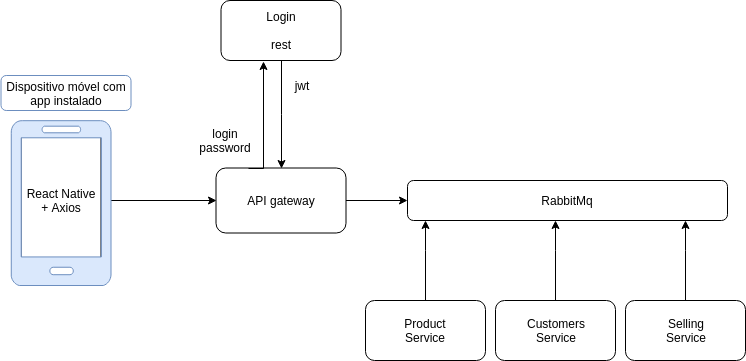
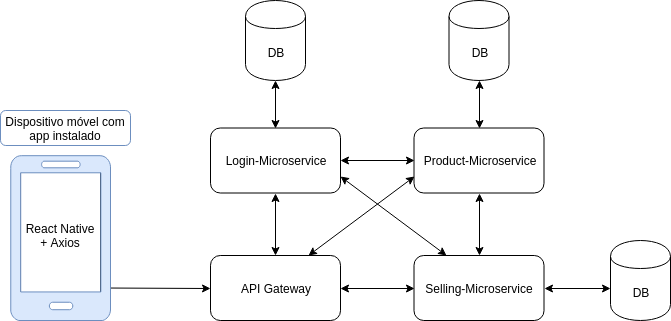
refatorando diagrama de relacoes e adicionando diagrama de classes

diff --git a/docs/docs/doc-arquitetura.md b/docs/docs/doc-arquitetura.md
@@ -77,9 +77,9 @@ Para o desenvolvimento deste projeto serão ultilizadas as seguintes tecnologias
 
 # 4 Visão de Implementação
 
-## 4.1 Modelagem de dados
+## 4.1 Diagrama de classes e serviços
 
-imagem
+![diagrama_classes_e_servicos](assets/arquitetura/diagrama_classes_e_servicos.png)
 
 ## 4.2 Diagrama de Pacotes
 
